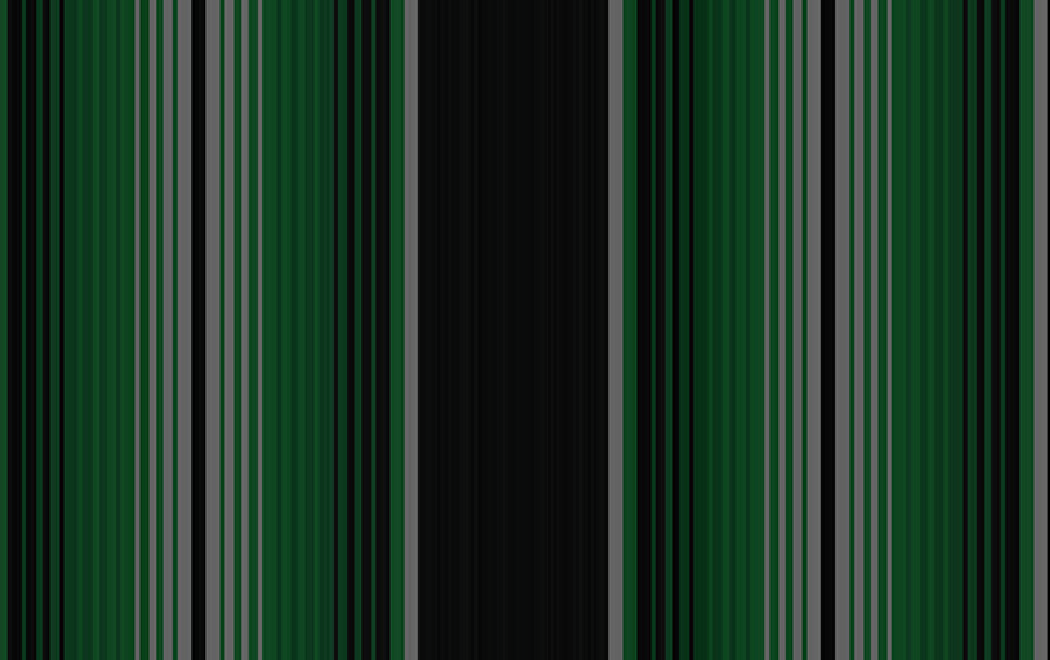
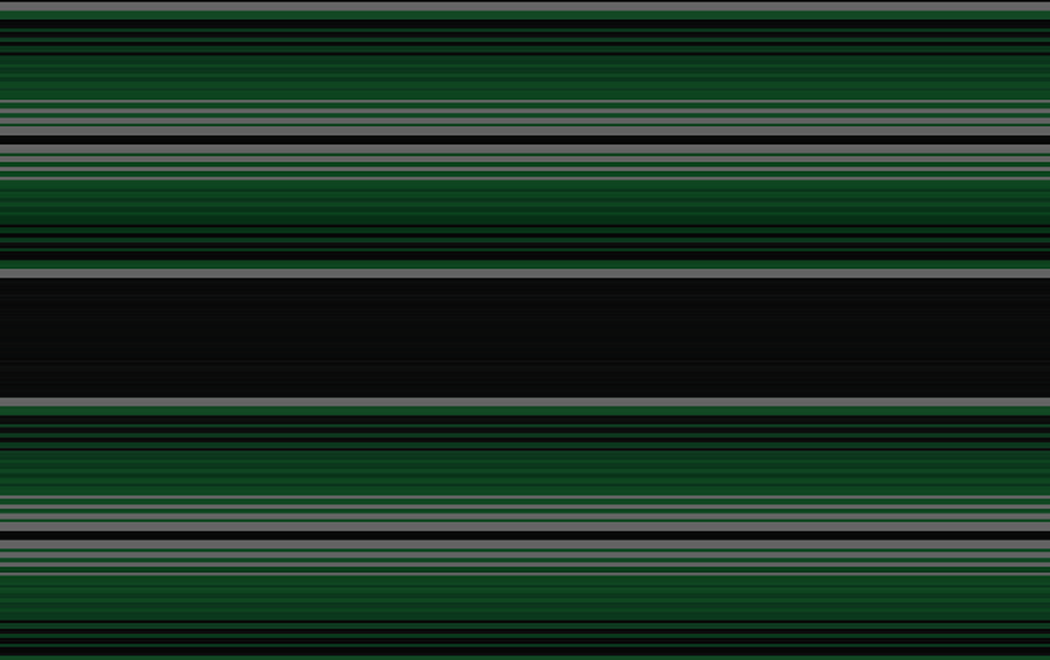
Run the 2020 serape stripes across the card and hero, as on the poster

diff --git a/assets/templates/themes/README.md b/assets/templates/themes/README.md
@@ -39,8 +39,8 @@ side. So the art's subject belongs in the top half, clear of the sides.
 ## How each year was made
 
 - **2020 (MMXX).** One column of pixels through the scarf's serape stripes.
-  Turned upright and stretched for the card (darkened 58%) and the hero; left
-  running across, as the scarf hangs, for the poster (darkened 35%).
+  Left running across, as the scarf hangs, and stretched to each shape: the
+  card (darkened 58%), the poster (darkened 35%) and the hero.
 - **2021 (inaugural season).** The scarf's back: the skull and its rings on
   black, darkened 45% on the card. The poster and hero show the skull and its
   rays at the top and middle respectively.
